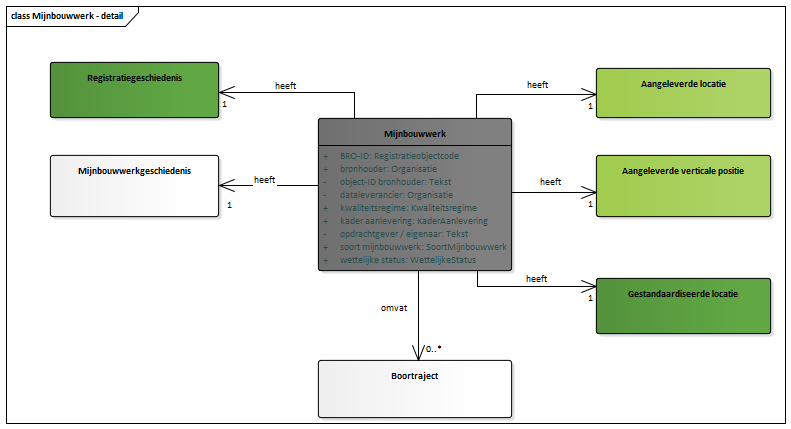
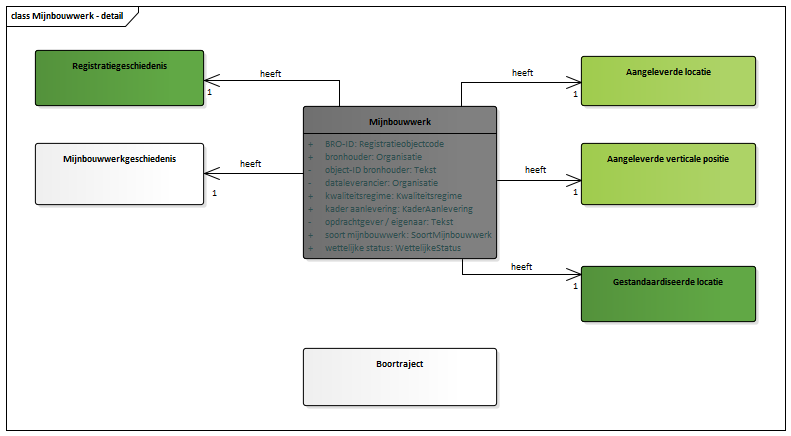
Conceptualmodel-MijnbouwconstructiesEPC-conceptueel-0.1versie27juli2020-1-20200727-20201028-103355

diff --git a/data/EPC-cat.msword.html b/data/EPC-cat.msword.html
@@ -15,7 +15,7 @@
    <body>
       <p>Conceptual model/Mijnbouwconstructies (EPC) - conceptueel/20200727</p>
       <p>Imvertor: 1.61.3</p>
-      <p>Model release: Conceptualmodel-MijnbouwconstructiesEPC-conceptueel-0.1versie27juli2020-1-20200727-20201026-171554</p>
+      <p>Model release: Conceptualmodel-MijnbouwconstructiesEPC-conceptueel-0.1versie27juli2020-1-20200727-20201028-103355</p>
       <hr>
       <section>
          <h1>Artikel 1 Definitie van registratieobject, entiteiten en attributen</h1>
@@ -61,7 +61,7 @@
          <section>
             <h2>Het domeinmodel</h2>
             <section id="">
-               <div class="imageinfo overview"><img src="Images/EAID_017CB205_53B6_4659_8664_F773CFA9FA2C.png" usemap="#imagemap-EAID_017CB205_53B6_4659_8664_F773CFA9FA2C" alt="Diagram "><map name="imagemap-EAID_017CB205_53B6_4659_8664_F773CFA9FA2C"><area shape="rect" alt="Tussentijdse gebeurtenis" coords="52,385,263,450" href="#graph_EAID_9C6EA470_E1F4_479d_B21A_A6E8EA9D3F88"><area shape="rect" alt="Mijnbouwwerkgeschiedenis" coords="35,276,290,338" href="#graph_EAID_C36A9725_3F81_4f6c_BDE2_5CED730905A2"><area shape="rect" alt="Boortraject locatie" coords="681,512,876,588" href="#graph_EAID_410F626E_1E87_47b5_AB5A_014C2D41B9B7"><area shape="rect" alt="Gestandaardiseerde locatie" coords="660,392,898,473" href="#graph_EAID_95E39295_3080_4135_862A_30756039B864"><area shape="rect" alt="Boortraject" coords="352,490,553,606" href="#graph_EAID_4E52826A_2252_4994_8AD0_986AD45E18C9"><area shape="rect" alt="Mijnbouwwerk" coords="352,215,546,370" href="#graph_EAID_69DE8D60_7E06_4b57_94CD_8338348EDAE5"><area shape="rect" alt="Registratiegeschiedenis" coords="40,50,276,239" href="#graph_EAID_8550146B_496A_40ca_BE86_AFD377E5A6D8"><area shape="rect" alt="Aangeleverde verticale positie" coords="625,228,947,357" href="#graph_EAID_A249D799_B098_49cd_98AA_DCAE0EB07DE7"><area shape="rect" alt="Aangeleverde locatie" coords="643,54,919,195" href="#graph_EAID_EDA11EEA_8FED_44be_AC04_18B58CB46F11"></map><p><b>Mijnbouwwerken (EPC) -  overzicht</b></p>
+               <div class="imageinfo overview"><img src="Images/EAID_017CB205_53B6_4659_8664_F773CFA9FA2C.png" usemap="#imagemap-EAID_017CB205_53B6_4659_8664_F773CFA9FA2C" alt="Diagram "><map name="imagemap-EAID_017CB205_53B6_4659_8664_F773CFA9FA2C"><area shape="rect" alt="Boorgat" coords="339,402,429,441" href="#graph_EAID_5EA2C150_B44C_4b23_8896_3B14B2E6C255"><area shape="rect" alt="Tussentijdse gebeurtenis" coords="52,385,263,450" href="#graph_EAID_9C6EA470_E1F4_479d_B21A_A6E8EA9D3F88"><area shape="rect" alt="Mijnbouwwerkgeschiedenis" coords="35,276,290,338" href="#graph_EAID_C36A9725_3F81_4f6c_BDE2_5CED730905A2"><area shape="rect" alt="Boortraject locatie" coords="681,512,876,588" href="#graph_EAID_410F626E_1E87_47b5_AB5A_014C2D41B9B7"><area shape="rect" alt="Gestandaardiseerde locatie" coords="660,392,898,473" href="#graph_EAID_95E39295_3080_4135_862A_30756039B864"><area shape="rect" alt="Boortraject" coords="352,490,553,606" href="#graph_EAID_4E52826A_2252_4994_8AD0_986AD45E18C9"><area shape="rect" alt="Mijnbouwwerk" coords="352,215,546,370" href="#graph_EAID_69DE8D60_7E06_4b57_94CD_8338348EDAE5"><area shape="rect" alt="Registratiegeschiedenis" coords="40,50,276,239" href="#graph_EAID_8550146B_496A_40ca_BE86_AFD377E5A6D8"><area shape="rect" alt="Aangeleverde verticale positie" coords="625,228,947,357" href="#graph_EAID_A249D799_B098_49cd_98AA_DCAE0EB07DE7"><area shape="rect" alt="Aangeleverde locatie" coords="643,54,919,195" href="#graph_EAID_EDA11EEA_8FED_44be_AC04_18B58CB46F11"></map><p><b>Mijnbouwwerken (EPC) -  overzicht</b></p>
                </div>
             </section>
          </section>
@@ -69,7 +69,7 @@
             <h2>Entiteiten en attributen</h2>
             <section id=""><a class="anchor" id="graph_EAID_69DE8D60_7E06_4b57_94CD_8338348EDAE5"></a><a class="anchor" id="global_class_Model_Mijnbouwwerk"></a><section id="global_class_Model_Mijnbouwwerk">
                   <h3>   Mijnbouwwerk</h3>
-                  <div class="imageinfo "><img src="Images/EAID_4918A086_07EB_4d65_A8F1_3AE97E085019.png" usemap="#imagemap-EAID_4918A086_07EB_4d65_A8F1_3AE97E085019" alt="Diagram "><map name="imagemap-EAID_4918A086_07EB_4d65_A8F1_3AE97E085019"><area shape="rect" alt="Mijnbouwwerkgeschiedenis" coords="50,155,219,217" href="#graph_EAID_C36A9725_3F81_4f6c_BDE2_5CED730905A2"><area shape="rect" alt="Gestandaardiseerde locatie" coords="596,278,771,334" href="#graph_EAID_95E39295_3080_4135_862A_30756039B864"><area shape="rect" alt="Boortraject" coords="318,360,512,418" href="#graph_EAID_4E52826A_2252_4994_8AD0_986AD45E18C9"><area shape="rect" alt="Mijnbouwwerk" coords="318,118,512,271" href="#graph_EAID_69DE8D60_7E06_4b57_94CD_8338348EDAE5"><area shape="rect" alt="Registratiegeschiedenis" coords="50,62,219,118" href="#graph_EAID_8550146B_496A_40ca_BE86_AFD377E5A6D8"><area shape="rect" alt="Aangeleverde verticale positie" coords="596,155,771,217" href="#graph_EAID_A249D799_B098_49cd_98AA_DCAE0EB07DE7"><area shape="rect" alt="Aangeleverde locatie" coords="596,68,771,118" href="#graph_EAID_EDA11EEA_8FED_44be_AC04_18B58CB46F11"></map><p><b></b></p>
+                  <div class="imageinfo "><img src="Images/EAID_4918A086_07EB_4d65_A8F1_3AE97E085019.png" usemap="#imagemap-EAID_4918A086_07EB_4d65_A8F1_3AE97E085019" alt="Diagram "><map name="imagemap-EAID_4918A086_07EB_4d65_A8F1_3AE97E085019"><area shape="rect" alt="Mijnbouwwerkgeschiedenis" coords="35,143,204,205" href="#graph_EAID_C36A9725_3F81_4f6c_BDE2_5CED730905A2"><area shape="rect" alt="Gestandaardiseerde locatie" coords="581,266,756,322" href="#graph_EAID_95E39295_3080_4135_862A_30756039B864"><area shape="rect" alt="Boortraject" coords="303,348,497,406" href="#graph_EAID_4E52826A_2252_4994_8AD0_986AD45E18C9"><area shape="rect" alt="Mijnbouwwerk" coords="303,106,497,259" href="#graph_EAID_69DE8D60_7E06_4b57_94CD_8338348EDAE5"><area shape="rect" alt="Registratiegeschiedenis" coords="35,50,204,106" href="#graph_EAID_8550146B_496A_40ca_BE86_AFD377E5A6D8"><area shape="rect" alt="Aangeleverde verticale positie" coords="581,143,756,205" href="#graph_EAID_A249D799_B098_49cd_98AA_DCAE0EB07DE7"><area shape="rect" alt="Aangeleverde locatie" coords="581,56,756,106" href="#graph_EAID_EDA11EEA_8FED_44be_AC04_18B58CB46F11"></map><p><b></b></p>
                   </div>
                   <table style="width: 100%;">
                      <colgroup style="width: 30%;"></colgroup>
@@ -1399,16 +1399,7 @@
                               <td>
                                  
                                  <p>De waarde van het attribuut moet gelijk zijn aan <em>ETRS89</em> of <em>RD</em> wanneer de locatie aan de landzijde van de mijnbouwgrens ligt.
-                                    De waarde van het attribuut moet gelijk zijn aan <em>ETRS89</em> of <em>WGS84</em> wanneer de locatie aan de zeezijde van de mijnbouwgrens ligt. </p>
-                                 </td>
-                           </tr>
-                           <tr>
-                              <th>Toelichting</th>
-                              <td>
-                                 
-                                 <p>
-                                    <em>waarom wijken we af van de UNCLOS-basislijn?</em>
-                                    </p>
+                                    De waarde van het attribuut moet gelijk zijn aan <em>ETRS89</em> of <em>WGS84</em> wanneer de locatie aan de zeezijde van de mijnbouwgrens ligt.</p>
                                  </td>
                            </tr>
                         </tbody>
@@ -1863,8 +1854,8 @@
                               <th>Regels</th>
                               <td>
                                  
-                                 <p>De waarde van het attribuut moet gelijk zijn aan <em>NAP</em> wanneer de aangeleverde locatie aan de landzijde van de UNCLOS-basislijn ligt.
-                                    De waarde van het attribuut moet gelijk zijn aan <em>LAT</em> of aan <em>MSL</em> wanneer de aangeleverde locatie aan de zeezijde van de UNCLOS-basislijn ligt.</p>
+                                 <p>De waarde van het attribuut moet gelijk zijn aan <em>NAP</em> wanneer de aangeleverde locatie aan de landzijde van de mijnbouwgrens ligt.
+                                    De waarde van het attribuut moet gelijk zijn aan <em>LAT</em> of aan <em>MSL</em> wanneer de aangeleverde locatie aan de zeezijde van de mijnbouwgrens ligt.</p>
                                  </td>
                            </tr>
                         </tbody>
@@ -2260,7 +2251,8 @@
                            <th>Definitie</th>
                            <td>
                               
-                              <p>Een holte in de ondergrond die resulteert na het uitvoeren van een boring.</p>
+                              <p>Een aaneengesloten holte in de ondergrond die resulteert na het uitvoeren van een
+                                 boring.</p>
                               </td>
                         </tr>
                         <tr>
@@ -2275,9 +2267,9 @@
                            <td>
                               
                               <p>Een boortraject betreft de eerstgeboorde holte in een boorgat (het primaire traject,
-                                 ook wel het moederboorgat genoemd) of een zijtak (van het primaire traject of van
-                                 een andere zijtak).
-                                 Boortrajecten overlappen elkaar niet: ieder boortraject vormt een uniek segment binnen
+                                 ook wel het moederboorgat genoemd) of een later geboorde zijtak (van het primaire
+                                 traject of van een andere zijtak).
+                                 Boortrajecten overlappen elkaar niet: ieder boortraject is een uniek segment binnen
                                  het boorgat.</p>
                               </td>
                         </tr>
@@ -2785,6 +2777,18 @@
                         </tbody>
                      </table>
                      </section>
+               </section><a class="anchor" id="graph_EAID_5EA2C150_B44C_4b23_8896_3B14B2E6C255"></a><a class="anchor" id="global_class_Model_Boorgat"></a><section id="global_class_Model_Boorgat">
+                  <h3>   Boorgat</h3>
+                  <table style="width: 100%;">
+                     <colgroup style="width: 30%;"></colgroup>
+                     <colgroup style="width: 70%;"></colgroup>
+                     <tbody>
+                        <tr>
+                           <th>Type gegeven</th>
+                           <td>Entiteit</td>
+                        </tr>
+                     </tbody>
+                  </table>
                </section>
             </section>
          </section>
@@ -3827,12 +3831,13 @@
                      <td>✔</td>
                      <td>
                         
-                        <p>Een boorgat valt onder de mijnbouwwet wanneer bij een boring naar delfstoffen deze
-                           op een diepte van meer dan 100 meter beneden de oppervlakte van de aardbodem aanwezig
-                           is, wanneer bij een boring naar aardwarmte deze op een diepte van meer dan 500 meter
-                           beneden de oppervlakte van de aardbodem aanwezig is of wanneer bij het opslaan van
-                           stoffen in de ondergrond dit plaatsvindt op een diepte van meer dan 100 meter beneden
-                           de oppervlakte van de aardbodem.</p>
+                        <p>Een boorgat is een ondergrondse holte die bestaat uit een stelsel van een of meerdere
+                           boortrajecten. Een boorgat valt onder de Mijnbouwwet wanneer bij een boring naar delfstoffen
+                           deze op een diepte van meer dan 100 meter beneden de oppervlakte van de aardbodem
+                           aanwezig is, wanneer bij een boring naar aardwarmte deze op een diepte van meer dan
+                           500 meter beneden de oppervlakte van de aardbodem aanwezig is of wanneer bij het opslaan
+                           van stoffen in de ondergrond dit plaatsvindt op een diepte van meer dan 100 meter
+                           beneden de oppervlakte van de aardbodem.</p>
                         </td>
                   </tr>
                </tbody>
